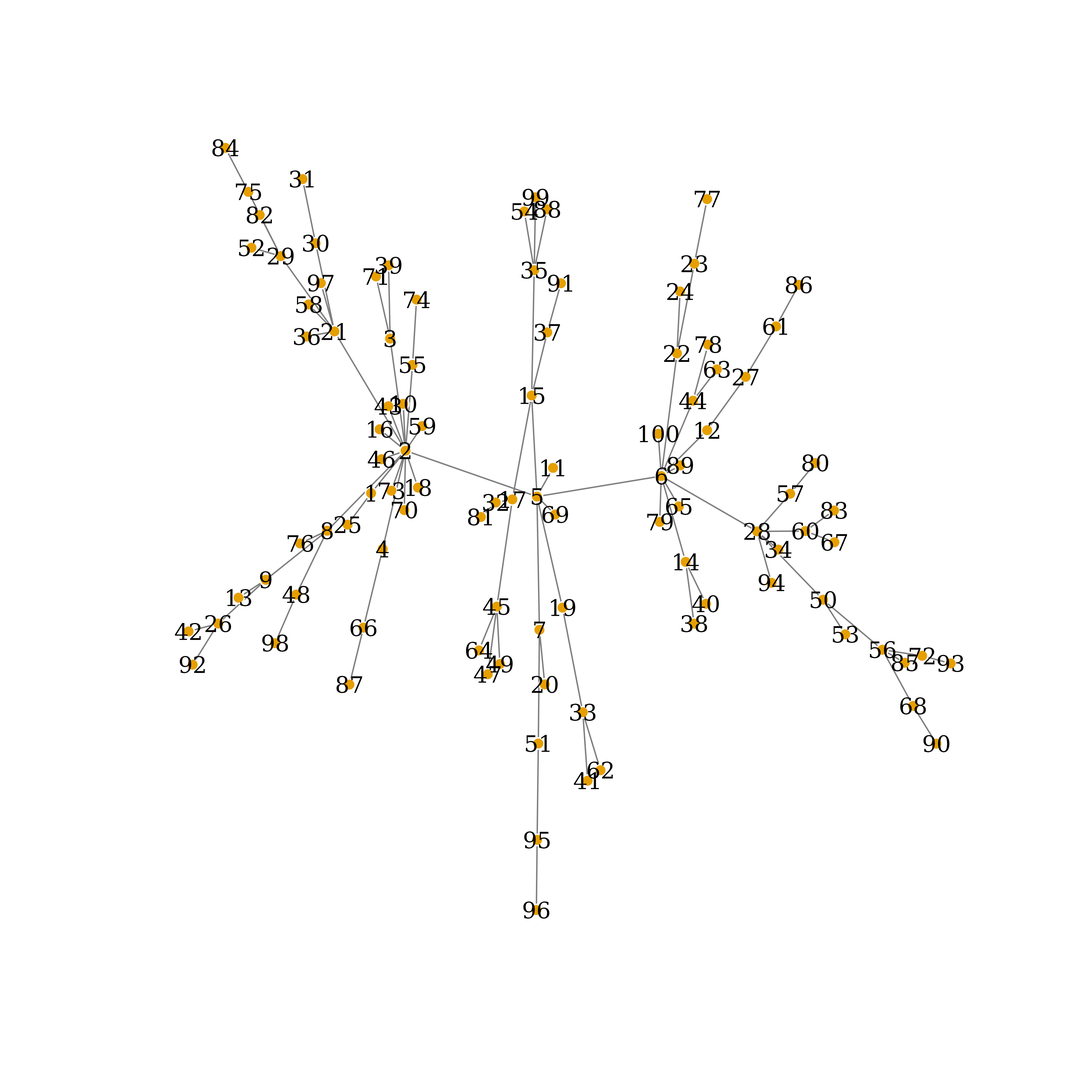
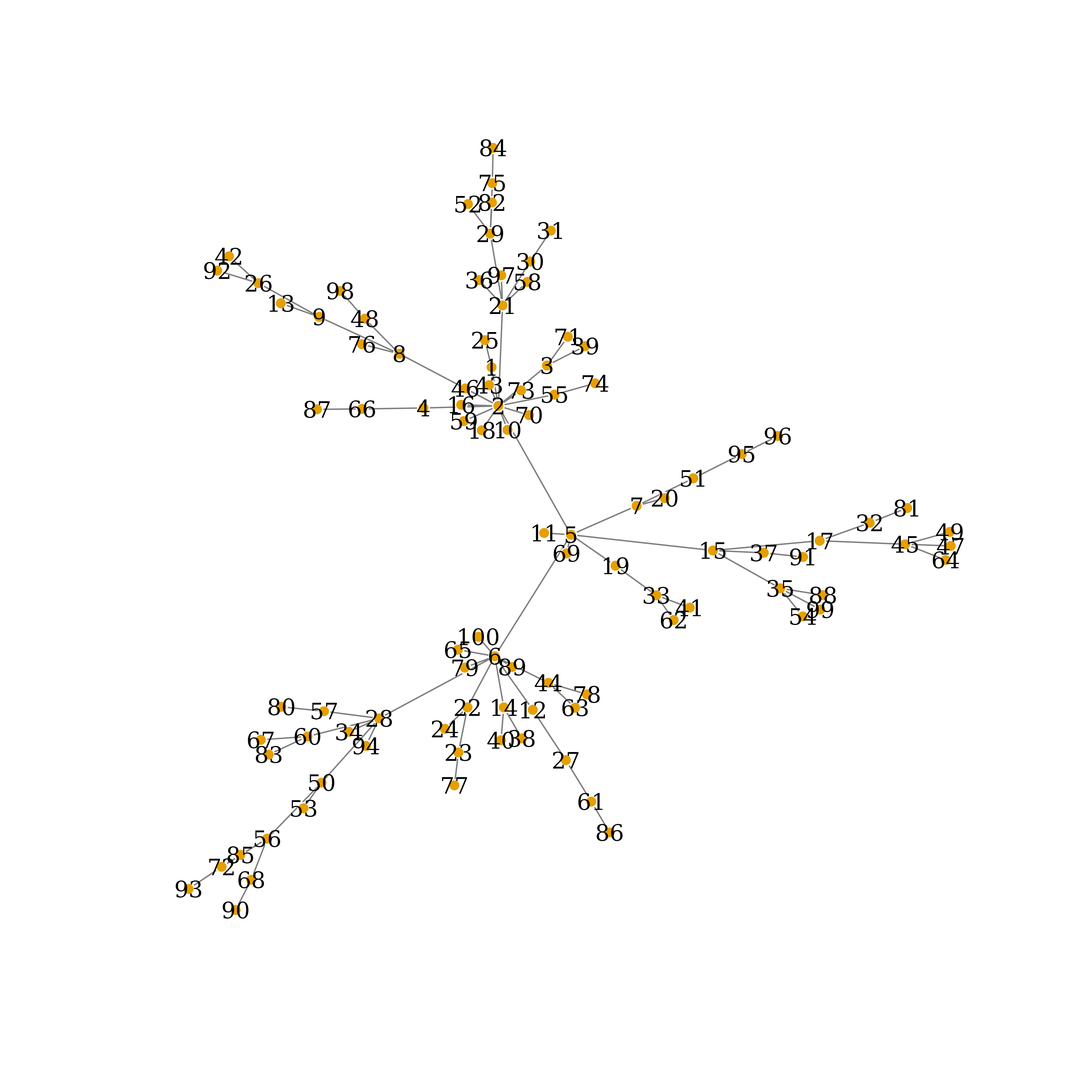
Deploying to gh-pages from @ HaoWang47/PCGII@eb001cafc447b2d425a1cf318b0b8c7fd6eb283d 🚀

diff --git a/articles/Introduction.html b/articles/Introduction.html
@@ -131,10 +131,11 @@ high-confidence information in real data applications.</p>
 <span><span class="co">#&gt; </span></span>
 <span><span class="co">#&gt; Loading required package: glmnet</span></span>
 <span><span class="co">#&gt; </span></span>
-<span><span class="co">#&gt; Loaded glmnet 4.1-8</span></span></code></pre></div>
+<span><span class="co">#&gt; Loaded glmnet 4.1-8</span></span>
+<span><span class="fu"><a href="https://rdrr.io/r/base/Random.html" class="external-link">set.seed</a></span><span class="op">(</span><span class="fl">010120000</span><span class="op">)</span></span></code></pre></div>
 </div>
 <div class="section level2">
-<h2 id="prepare-data">Prepare Data<a class="anchor" aria-label="anchor" href="#prepare-data"></a>
+<h2 id="simulate-network-and-prepare-data">Simulate Network and Prepare Data<a class="anchor" aria-label="anchor" href="#simulate-network-and-prepare-data"></a>
 </h2>
 <p>Three methods of generating a network structure were included in
 PCGII, including Scale Free Network Structure, Random Connection Network
@@ -142,21 +143,16 @@ Structure, and Block Diagonal Network Structure. In this section, we
 will illustrate what are expected during data preparation. We will start
 with a network with 100 nodes.</p>
 <div class="sourceCode" id="cb2"><pre class="downlit sourceCode r">
-<code class="sourceCode R"><span><span class="fu"><a href="https://rdrr.io/r/base/Random.html" class="external-link">set.seed</a></span><span class="op">(</span><span class="fl">010120000</span><span class="op">)</span></span>
-<span><span class="co">## Simulate precision matrix as your true network structure</span></span>
+<code class="sourceCode R"><span><span class="co">## Simulate precision matrix as your true network structure</span></span>
 <span><span class="va">N_nodes</span> <span class="op">=</span> <span class="fl">100</span></span>
 <span><span class="va">N_samples</span> <span class="op">=</span> <span class="fl">30</span></span>
-<span><span class="va">Omega</span> <span class="op">=</span> <span class="fu"><a href="../reference/make_sf_precision_mat.html">make_sf_precision_mat</a></span><span class="op">(</span>e <span class="op">=</span> <span class="fl">1</span>, p <span class="op">=</span> <span class="va">N_nodes</span><span class="op">)</span></span>
-<span><span class="va">Sigma</span> <span class="op">=</span> <span class="fu"><a href="https://rdrr.io/pkg/Matrix/man/solve-methods.html" class="external-link">solve</a></span><span class="op">(</span><span class="va">Omega</span><span class="op">)</span></span>
-<span><span class="va">mu</span> <span class="op">=</span> <span class="fu"><a href="https://rdrr.io/r/base/Log.html" class="external-link">exp</a></span><span class="op">(</span><span class="fu"><a href="https://rdrr.io/r/stats/Normal.html" class="external-link">qnorm</a></span><span class="op">(</span><span class="fu"><a href="https://rdrr.io/r/base/seq.html" class="external-link">seq</a></span><span class="op">(</span>from <span class="op">=</span> <span class="fl">0.01</span>, to <span class="op">=</span> <span class="fl">0.99</span>, length.out <span class="op">=</span> <span class="va">N_nodes</span><span class="op">)</span>, mean <span class="op">=</span> <span class="fl">2</span>, sd<span class="op">=</span><span class="fl">1</span><span class="op">)</span><span class="op">)</span></span>
-<span><span class="va">norm_data</span> <span class="op">=</span> <span class="fu">mvtnorm</span><span class="fu">::</span><span class="fu"><a href="https://rdrr.io/pkg/mvtnorm/man/Mvnorm.html" class="external-link">rmvnorm</a></span><span class="op">(</span>n <span class="op">=</span> <span class="va">N_samples</span>, mean <span class="op">=</span> <span class="va">mu</span>, sigma <span class="op">=</span> <span class="va">Sigma</span><span class="op">)</span></span>
-<span><span class="co">## Convert simulated normal data to expression count data</span></span>
-<span><span class="va">norm_data</span><span class="op">[</span><span class="va">norm_data</span><span class="op">&lt;</span><span class="fl">0</span><span class="op">]</span> <span class="op">=</span> <span class="fl">0</span></span>
-<span><span class="va">Exp_data</span> <span class="op">=</span> <span class="fu"><a href="https://rdrr.io/r/base/Round.html" class="external-link">round</a></span><span class="op">(</span><span class="va">norm_data</span><span class="op">)</span></span></code></pre></div>
+<span><span class="va">Omega</span> <span class="op">=</span> <span class="fu"><a href="../reference/make_sf_precision_mat.html">make_sf_precision_mat</a></span><span class="op">(</span>e <span class="op">=</span> <span class="fl">1</span>, p <span class="op">=</span> <span class="va">N_nodes</span><span class="op">)</span></span></code></pre></div>
 <div class="sourceCode" id="cb3"><pre class="downlit sourceCode r">
 <code class="sourceCode R"><span><span class="co">## Display the true network</span></span>
 <span><span class="va">nodenames</span> <span class="op">=</span> <span class="fl">1</span><span class="op">:</span><span class="va">N_nodes</span></span>
 <span><span class="va">links</span> <span class="op">=</span> <span class="fu"><a href="https://rdrr.io/r/base/which.html" class="external-link">which</a></span><span class="op">(</span><span class="fu"><a href="https://rdrr.io/r/base/lower.tri.html" class="external-link">lower.tri</a></span><span class="op">(</span><span class="va">Omega</span><span class="op">)</span> <span class="op">&amp;</span> <span class="va">Omega</span><span class="op">!=</span><span class="fl">0</span>, arr.ind <span class="op">=</span> <span class="cn">TRUE</span><span class="op">)</span></span>
+<span><span class="fu"><a href="https://rdrr.io/r/base/dim.html" class="external-link">dim</a></span><span class="op">(</span><span class="va">links</span><span class="op">)</span> <span class="co"># display number of connections, two columns correspond to the connected nodes</span></span>
+<span><span class="co">#&gt; [1] 99  2</span></span>
 <span><span class="va">my_net</span> <span class="op">&lt;-</span> <span class="fu"><a href="https://r.igraph.org/reference/graph_from_data_frame.html" class="external-link">graph_from_data_frame</a></span><span class="op">(</span>d<span class="op">=</span><span class="va">links</span>, vertices<span class="op">=</span><span class="va">nodenames</span>, directed<span class="op">=</span><span class="cn">F</span><span class="op">)</span> </span>
 <span><span class="va">Ecolrs</span><span class="op">=</span><span class="fu"><a href="https://rdrr.io/r/base/c.html" class="external-link">c</a></span><span class="op">(</span><span class="st">"gray50"</span><span class="op">)</span></span>
 <span><span class="va">Vcolrs</span><span class="op">=</span><span class="fu"><a href="https://rdrr.io/r/base/c.html" class="external-link">c</a></span><span class="op">(</span><span class="st">"gold"</span><span class="op">)</span></span>
@@ -184,6 +180,114 @@ True Network Connections, auto-layout
 <img src="Introduction_files/figure-html/unnamed-chunk-2-1.png" alt="True Network Connections, circle-layout" width="80%"><p class="caption">
 True Network Connections, circle-layout
 </p>
+</div>
+<div class="sourceCode" id="cb5"><pre class="downlit sourceCode r">
+<code class="sourceCode R"><span><span class="co">## Simulate Normal data</span></span>
+<span><span class="va">Sigma</span> <span class="op">=</span> <span class="fu"><a href="https://rdrr.io/pkg/Matrix/man/solve-methods.html" class="external-link">solve</a></span><span class="op">(</span><span class="va">Omega</span><span class="op">)</span></span>
+<span><span class="va">mu</span> <span class="op">=</span> <span class="fu"><a href="https://rdrr.io/r/base/Log.html" class="external-link">exp</a></span><span class="op">(</span><span class="fu"><a href="https://rdrr.io/r/stats/Normal.html" class="external-link">qnorm</a></span><span class="op">(</span><span class="fu"><a href="https://rdrr.io/r/base/seq.html" class="external-link">seq</a></span><span class="op">(</span>from <span class="op">=</span> <span class="fl">0.01</span>, to <span class="op">=</span> <span class="fl">0.99</span>, length.out <span class="op">=</span> <span class="va">N_nodes</span><span class="op">)</span>, mean <span class="op">=</span> <span class="fl">2</span>, sd<span class="op">=</span><span class="fl">1</span><span class="op">)</span><span class="op">)</span></span>
+<span><span class="va">norm_data</span> <span class="op">=</span> <span class="fu">mvtnorm</span><span class="fu">::</span><span class="fu"><a href="https://rdrr.io/pkg/mvtnorm/man/Mvnorm.html" class="external-link">rmvnorm</a></span><span class="op">(</span>n <span class="op">=</span> <span class="va">N_samples</span>, mean <span class="op">=</span> <span class="va">mu</span>, sigma <span class="op">=</span> <span class="va">Sigma</span><span class="op">)</span></span>
+<span><span class="co">## Convert simulated normal data to expression count data</span></span>
+<span><span class="va">norm_data</span><span class="op">[</span><span class="va">norm_data</span><span class="op">&lt;</span><span class="fl">0</span><span class="op">]</span> <span class="op">=</span> <span class="fl">0</span></span>
+<span><span class="va">Exp_data</span> <span class="op">=</span> <span class="fu"><a href="https://rdrr.io/r/base/Round.html" class="external-link">round</a></span><span class="op">(</span><span class="va">norm_data</span><span class="op">)</span></span>
+<span><span class="fu"><a href="https://rdrr.io/r/utils/head.html" class="external-link">head</a></span><span class="op">(</span><span class="va">Exp_data</span><span class="op">[</span>,<span class="fl">1</span><span class="op">:</span><span class="fl">10</span><span class="op">]</span><span class="op">)</span></span>
+<span><span class="co">#&gt;      [,1] [,2] [,3] [,4] [,5] [,6] [,7] [,8] [,9] [,10]</span></span>
+<span><span class="co">#&gt; [1,]    0    0    0    3    1    3    1    2    3     2</span></span>
+<span><span class="co">#&gt; [2,]    1    1    1    2    1    1    2    2    1     2</span></span>
+<span><span class="co">#&gt; [3,]    0    1    1    1    3    1    0    3    1     4</span></span>
+<span><span class="co">#&gt; [4,]    0    0    1    2    1    1    3    3    3     2</span></span>
+<span><span class="co">#&gt; [5,]    3    0    2    4    0    2    1    4    0     0</span></span>
+<span><span class="co">#&gt; [6,]    1    1    1    0    2    2    2    0    5     2</span></span></code></pre></div>
+<p>For illustration, we will randomly selection partial true connections
+and use them as prior knowledge. It should be carefully considered if
+such prior connections are undirected (i.e. A-B OR A-&gt;B &amp;
+B-&gt;A) in practice. Under the PCGII framework, it is recommended to
+use undirected connections as prior information.</p>
+<div class="sourceCode" id="cb6"><pre class="downlit sourceCode r">
+<code class="sourceCode R"><span><span class="va">prior_links</span> <span class="op">=</span> <span class="va">links</span><span class="op">[</span><span class="fu"><a href="https://rdrr.io/r/base/sample.html" class="external-link">sample</a></span><span class="op">(</span><span class="fl">1</span><span class="op">:</span><span class="fu"><a href="https://rdrr.io/r/base/nrow.html" class="external-link">nrow</a></span><span class="op">(</span><span class="va">links</span><span class="op">)</span>, <span class="fl">.2</span><span class="op">*</span><span class="fu"><a href="https://rdrr.io/r/base/nrow.html" class="external-link">nrow</a></span><span class="op">(</span><span class="va">links</span><span class="op">)</span><span class="op">)</span>,<span class="op">]</span></span>
+<span><span class="va">types</span> <span class="op">=</span> <span class="fu"><a href="https://rdrr.io/r/base/rep.html" class="external-link">rep</a></span><span class="op">(</span><span class="fl">1</span>, <span class="fl">99</span><span class="op">)</span></span>
+<span><span class="va">types</span><span class="op">[</span><span class="va">prior_links</span><span class="op">]</span> <span class="op">=</span> <span class="fl">2</span> <span class="co"># 1 for unknown true connections, 2 for known prior connections</span></span>
+<span><span class="va">undirected_prior_links</span> <span class="op">=</span> <span class="fu"><a href="../reference/undirected_prior.html">undirected_prior</a></span><span class="op">(</span><span class="va">prior_links</span><span class="op">)</span></span>
+<span><span class="va">prior_net</span> <span class="op">=</span> <span class="fu"><a href="https://r.igraph.org/reference/graph_from_data_frame.html" class="external-link">graph_from_data_frame</a></span><span class="op">(</span>d<span class="op">=</span><span class="fu"><a href="https://rdrr.io/r/base/cbind.html" class="external-link">cbind</a></span><span class="op">(</span><span class="va">links</span>,<span class="va">types</span><span class="op">)</span>, vertices<span class="op">=</span><span class="va">nodenames</span>, directed<span class="op">=</span><span class="cn">F</span><span class="op">)</span> </span>
+<span><span class="co">#&gt; Warning in cbind(links, types): number of rows of result is not a multiple of</span></span>
+<span><span class="co">#&gt; vector length (arg 2)</span></span>
+<span><span class="va">Ecolrs</span><span class="op">=</span><span class="fu"><a href="https://rdrr.io/r/base/c.html" class="external-link">c</a></span><span class="op">(</span><span class="st">"grey90"</span>, <span class="st">"grey10"</span><span class="op">)</span> <span class="co"># dark grey shows known prior connections</span></span>
+<span><span class="fu"><a href="https://r.igraph.org/reference/E.html" class="external-link">E</a></span><span class="op">(</span><span class="va">prior_net</span><span class="op">)</span><span class="op">$</span><span class="va">color</span> <span class="op">=</span> <span class="va">Ecolrs</span><span class="op">[</span><span class="fu"><a href="https://r.igraph.org/reference/E.html" class="external-link">E</a></span><span class="op">(</span><span class="va">prior_net</span><span class="op">)</span><span class="op">$</span><span class="va">types</span><span class="op">]</span></span>
+<span><span class="va">Vcolrs</span><span class="op">=</span><span class="fu"><a href="https://rdrr.io/r/base/c.html" class="external-link">c</a></span><span class="op">(</span><span class="st">"gold"</span><span class="op">)</span></span>
+<span><span class="fu"><a href="https://rdrr.io/r/graphics/plot.default.html" class="external-link">plot</a></span><span class="op">(</span><span class="va">prior_net</span>, </span>
+<span>     edge.arrow.size<span class="op">=</span><span class="fl">.5</span>, </span>
+<span>     vertex.frame.color<span class="op">=</span><span class="st">"#ffffff"</span>,</span>
+<span>     vertex.label.color<span class="op">=</span><span class="st">"black"</span>,</span>
+<span>     vertex.size<span class="op">=</span><span class="fl">3</span>,</span>
+<span>     layout<span class="op">=</span><span class="fu"><a href="https://r.igraph.org/reference/layout.deprecated.html" class="external-link">layout.circle</a></span><span class="op">(</span><span class="va">my_net</span><span class="op">)</span><span class="op">)</span> </span></code></pre></div>
+<div class="figure" style="text-align: center">
+<img src="Introduction_files/figure-html/prior-1.png" alt="Prior Network Connections, circle-layout" width="80%"><p class="caption">
+Prior Network Connections, circle-layout
+</p>
+</div>
+</div>
+<div class="section level2">
+<h2 id="analyses-with-pcgii-and-clevel">Analyses with PCGII and CLEVEL<a class="anchor" aria-label="anchor" href="#analyses-with-pcgii-and-clevel"></a>
+</h2>
+<div class="section level3">
+<h3 id="pcgii-inference">PCGII Inference<a class="anchor" aria-label="anchor" href="#pcgii-inference"></a>
+</h3>
+<div class="sourceCode" id="cb7"><pre class="downlit sourceCode r">
+<code class="sourceCode R"><span><span class="va">fixed_lamdba</span> <span class="op">=</span> <span class="fu"><a href="https://rdrr.io/r/base/MathFun.html" class="external-link">sqrt</a></span><span class="op">(</span><span class="fl">2</span><span class="op">*</span><span class="fu"><a href="https://rdrr.io/r/base/Log.html" class="external-link">log</a></span><span class="op">(</span><span class="va">N_nodes</span><span class="op">/</span><span class="fu"><a href="https://rdrr.io/r/base/MathFun.html" class="external-link">sqrt</a></span><span class="op">(</span><span class="va">N_samples</span><span class="op">)</span><span class="op">)</span><span class="op">/</span><span class="va">N_samples</span><span class="op">)</span></span>
+<span><span class="va">PCGII.out</span> <span class="op">=</span> <span class="fu"><a href="../reference/PCGII.html">PCGII</a></span><span class="op">(</span>df <span class="op">=</span> <span class="va">Exp_data</span>, prior <span class="op">=</span> <span class="va">undirected_prior_links</span>, lambda <span class="op">=</span> <span class="va">fixed_lamdba</span><span class="op">)</span></span>
+<span><span class="va">PCGII.inf</span> <span class="op">=</span> <span class="fu"><a href="../reference/inference.html">inference</a></span><span class="op">(</span><span class="va">PCGII.out</span>, alpha <span class="op">=</span> <span class="fl">.1</span><span class="op">)</span></span></code></pre></div>
+</div>
+<div class="section level3">
+<h3 id="display-significant-connections-detected-by-pcgii">Display significant connections detected by PCGII<a class="anchor" aria-label="anchor" href="#display-significant-connections-detected-by-pcgii"></a>
+</h3>
+<div class="sourceCode" id="cb8"><pre class="downlit sourceCode r">
+<code class="sourceCode R"><span><span class="va">PCGII_links</span> <span class="op">=</span> <span class="fu"><a href="https://rdrr.io/r/base/which.html" class="external-link">which</a></span><span class="op">(</span><span class="fu"><a href="https://rdrr.io/r/base/lower.tri.html" class="external-link">lower.tri</a></span><span class="op">(</span><span class="va">PCGII.inf</span><span class="op">)</span> <span class="op">&amp;</span> <span class="va">PCGII.inf</span><span class="op">!=</span><span class="fl">0</span>, arr.ind <span class="op">=</span> <span class="cn">TRUE</span><span class="op">)</span></span>
+<span><span class="fu"><a href="https://rdrr.io/r/base/dim.html" class="external-link">dim</a></span><span class="op">(</span><span class="va">PCGII_links</span><span class="op">)</span> <span class="co"># display number of connections detected by PCGII</span></span>
+<span><span class="co">#&gt; [1] 45  2</span></span>
+<span><span class="va">PCGII_net</span> <span class="op">&lt;-</span> <span class="fu"><a href="https://r.igraph.org/reference/graph_from_data_frame.html" class="external-link">graph_from_data_frame</a></span><span class="op">(</span>d<span class="op">=</span><span class="va">PCGII_links</span>, vertices<span class="op">=</span><span class="va">nodenames</span>, directed<span class="op">=</span><span class="cn">F</span><span class="op">)</span> </span>
+<span><span class="va">Ecolrs</span><span class="op">=</span><span class="fu"><a href="https://rdrr.io/r/base/c.html" class="external-link">c</a></span><span class="op">(</span><span class="st">"blue"</span><span class="op">)</span></span>
+<span><span class="va">Vcolrs</span><span class="op">=</span><span class="fu"><a href="https://rdrr.io/r/base/c.html" class="external-link">c</a></span><span class="op">(</span><span class="st">"gold"</span><span class="op">)</span></span>
+<span><span class="fu"><a href="https://rdrr.io/r/graphics/plot.default.html" class="external-link">plot</a></span><span class="op">(</span><span class="va">PCGII_net</span>, </span>
+<span>     edge.arrow.size<span class="op">=</span><span class="fl">.5</span>, </span>
+<span>     edge.color<span class="op">=</span><span class="va">Ecolrs</span>,</span>
+<span>     vertex.frame.color<span class="op">=</span><span class="st">"#ffffff"</span>,</span>
+<span>     vertex.label.color<span class="op">=</span><span class="st">"black"</span>,</span>
+<span>     vertex.size<span class="op">=</span><span class="fl">3</span>,</span>
+<span>     layout<span class="op">=</span><span class="fu"><a href="https://r.igraph.org/reference/layout.deprecated.html" class="external-link">layout.circle</a></span><span class="op">(</span><span class="va">PCGII_net</span><span class="op">)</span><span class="op">)</span> </span></code></pre></div>
+<div class="figure" style="text-align: center">
+<img src="Introduction_files/figure-html/PCGII_net-1.png" alt="Network Recovered by PCGII, circle-layout" width="80%"><p class="caption">
+Network Recovered by PCGII, circle-layout
+</p>
+</div>
+</div>
+<div class="section level3">
+<h3 id="pcgii-inference-1">PCGII Inference<a class="anchor" aria-label="anchor" href="#pcgii-inference-1"></a>
+</h3>
+<div class="sourceCode" id="cb9"><pre class="downlit sourceCode r">
+<code class="sourceCode R"><span><span class="va">CLEVEL.out</span> <span class="op">=</span> <span class="fu"><a href="../reference/clevel.html">clevel</a></span><span class="op">(</span>df <span class="op">=</span> <span class="va">Exp_data</span>, lambda <span class="op">=</span> <span class="va">fixed_lamdba</span><span class="op">)</span></span>
+<span><span class="va">CLEVEL.inf</span> <span class="op">=</span> <span class="fu"><a href="../reference/inference.html">inference</a></span><span class="op">(</span><span class="va">CLEVEL.out</span>, alpha <span class="op">=</span> <span class="fl">.1</span><span class="op">)</span></span></code></pre></div>
+</div>
+<div class="section level3">
+<h3 id="display-significant-connections-detected-by-pcgii-1">Display significant connections detected by PCGII<a class="anchor" aria-label="anchor" href="#display-significant-connections-detected-by-pcgii-1"></a>
+</h3>
+<div class="sourceCode" id="cb10"><pre class="downlit sourceCode r">
+<code class="sourceCode R"><span><span class="va">CLEVEL_links</span> <span class="op">=</span> <span class="fu"><a href="https://rdrr.io/r/base/which.html" class="external-link">which</a></span><span class="op">(</span><span class="fu"><a href="https://rdrr.io/r/base/lower.tri.html" class="external-link">lower.tri</a></span><span class="op">(</span><span class="va">CLEVEL.inf</span><span class="op">)</span> <span class="op">&amp;</span> <span class="va">CLEVEL.inf</span><span class="op">!=</span><span class="fl">0</span>, arr.ind <span class="op">=</span> <span class="cn">TRUE</span><span class="op">)</span></span>
+<span><span class="fu"><a href="https://rdrr.io/r/base/dim.html" class="external-link">dim</a></span><span class="op">(</span><span class="va">CLEVEL_links</span><span class="op">)</span> <span class="co"># display number of connections detected by PCGII</span></span>
+<span><span class="co">#&gt; [1] 38  2</span></span>
+<span><span class="va">CLEVEL_net</span> <span class="op">&lt;-</span> <span class="fu"><a href="https://r.igraph.org/reference/graph_from_data_frame.html" class="external-link">graph_from_data_frame</a></span><span class="op">(</span>d<span class="op">=</span><span class="va">CLEVEL_links</span>, vertices<span class="op">=</span><span class="va">nodenames</span>, directed<span class="op">=</span><span class="cn">F</span><span class="op">)</span> </span>
+<span><span class="va">Ecolrs</span><span class="op">=</span><span class="fu"><a href="https://rdrr.io/r/base/c.html" class="external-link">c</a></span><span class="op">(</span><span class="st">"blue"</span><span class="op">)</span></span>
+<span><span class="va">Vcolrs</span><span class="op">=</span><span class="fu"><a href="https://rdrr.io/r/base/c.html" class="external-link">c</a></span><span class="op">(</span><span class="st">"gold"</span><span class="op">)</span></span>
+<span><span class="fu"><a href="https://rdrr.io/r/graphics/plot.default.html" class="external-link">plot</a></span><span class="op">(</span><span class="va">CLEVEL_net</span>, </span>
+<span>     edge.arrow.size<span class="op">=</span><span class="fl">.5</span>, </span>
+<span>     edge.color<span class="op">=</span><span class="va">Ecolrs</span>,</span>
+<span>     vertex.frame.color<span class="op">=</span><span class="st">"#ffffff"</span>,</span>
+<span>     vertex.label.color<span class="op">=</span><span class="st">"black"</span>,</span>
+<span>     vertex.size<span class="op">=</span><span class="fl">3</span>,</span>
+<span>     layout<span class="op">=</span><span class="fu"><a href="https://r.igraph.org/reference/layout.deprecated.html" class="external-link">layout.circle</a></span><span class="op">(</span><span class="va">CLEVEL_net</span><span class="op">)</span><span class="op">)</span> </span></code></pre></div>
+<div class="figure" style="text-align: center">
+<img src="Introduction_files/figure-html/CLEVEL_net-1.png" alt="Network Recovered by CLEVEL, circle-layout" width="80%"><p class="caption">
+Network Recovered by CLEVEL, circle-layout
+</p>
+</div>
 </div>
 </div>
   </main><aside class="col-md-3"><nav id="toc"><h2>On this page</h2>

diff --git a/index.html b/index.html
@@ -80,10 +80,9 @@
 <div class="section level3">
 <h3 id="citation">Citation:<a class="anchor" aria-label="anchor" href="#citation"></a>
 </h3>
-</div>
-<div class="section level2">
-<h2 id="id_-wang-h-qiu-y-guo-h-yin-y-liu-p-2024-information-incorporated-gene-network-construction-with-fdr-control-under-review">&gt; Wang, H., Qiu, Y.*, Guo, H., Yin, Y., Liu, P.*, 2024. Information-incorporated Gene Network Construction with FDR Control. Under review.<a class="anchor" aria-label="anchor" href="#id_-wang-h-qiu-y-guo-h-yin-y-liu-p-2024-information-incorporated-gene-network-construction-with-fdr-control-under-review"></a>
-</h2>
+<blockquote>
+<p>Wang, H., Qiu, Y.*, Guo, H., Yin, Y., Liu, P.*, 2024. Information-incorporated Gene Network Construction with FDR Control. Under review.</p>
+</blockquote>
 </div>
 </div>
 <div class="section level1">
@@ -103,43 +102,63 @@
 <div class="section level3">
 <h3 id="usage">Usage<a class="anchor" aria-label="anchor" href="#usage"></a>
 </h3>
-<pre class="pcgii()```:"><code>
-  - Input:
-    - `df`: the main expression data, an $n$ by $p$ matrix/dataframe, in which each row corresponds to a sample and each column represents expression/abundance of an omics feature;
-    - `prior`: the prior set, a $k$ by $2$ dataframe, in which each row corresponds to a pair of nodes (any omics features) that are connected under prior belief. Note, prior input has to be dataframe with column names **"row"** and **"col"**;
-    - `lambda`: the regularization parameter, used in the node-wise regression. If missing, default lambda will be used which is at the order of $\sqrt{2\times log(p/\sqrt{n})/n}$.
-  - Remark: mathematical standardization will be automatically done within the function.
-  - Output: This function returns a list of
-    - `Est`: estimated partial correlation matrix;
-    - `EstThresh`: sparse partial correlation estimation matrix with threshold;
-    - `kappa`: estimated ratio of forth and squared second moment of residuals, please refer to the manuscript for details;
-    - `tscore`: estimated test statistics matrix of partial correlations;
-    - `n`: sample size;
-    - `p`: number of genes under study.
-
-```Inference()```:
-
-  - Input:
-    - `list`: a list returned by either `PCGII()` or `clevel()`.
-    - `alpha`: pre-determined False Discovery Rate. Nominal FDR is set at 0.05 by default.
-  - Output: an adjacency matrix of significant partial correlations.
-
------
-
-# Network Analysis
-
-Simulate data $X$ from a scale-free network $g$.
-
-```r
-&gt; # Simulating data
-&gt; set.seed(1234567)
-&gt; n=50 # sample size
-&gt; p=30 # number of nodes
-&gt;
-&gt; omega=make_random_precision_mat(eta=.01, p=p)
-&gt;
-&gt; Sigma=solve(omega) # population covariance matrix, which is used to generate data
-&gt; X = rmvnorm(n = n, sigma = Sigma) # simulate expression data</code></pre>
+<p><code><a href="reference/PCGII.html">PCGII()</a></code></p>
+<ul>
+<li>Input:
+<ul>
+<li>
+<code>df</code>: the main expression data, an <span class="math inline"><em>n</em></span> by <span class="math inline"><em>p</em></span> matrix/dataframe, in which each row corresponds to a sample and each column represents expression/abundance of an omics feature;</li>
+<li>
+<code>prior</code>: the prior set, a <span class="math inline"><em>k</em></span> by <span class="math inline">2</span> dataframe, in which each row corresponds to a pair of nodes (any omics features) that are connected under prior belief. Note, prior input has to be dataframe with column names <strong>“row”</strong> and <strong>“col”</strong>;</li>
+<li>
+<code>lambda</code>: the regularization parameter, used in the node-wise regression. If missing, default lambda will be used which is at the order of <span class="math inline">$\sqrt{2\times log(p/\sqrt{n})/n}$</span>.</li>
+</ul>
+</li>
+<li>Remark: mathematical standardization will be automatically done within the function.</li>
+<li>Output: This function returns a list of
+<ul>
+<li>
+<code>Est</code>: estimated partial correlation matrix;</li>
+<li>
+<code>EstThresh</code>: sparse partial correlation estimation matrix with threshold;</li>
+<li>
+<code>kappa</code>: estimated ratio of forth and squared second moment of residuals, please refer to the manuscript for details;</li>
+<li>
+<code>tscore</code>: estimated test statistics matrix of partial correlations;</li>
+<li>
+<code>n</code>: sample size;</li>
+<li>
+<code>p</code>: number of genes under study.</li>
+</ul>
+</li>
+</ul>
+<p><code>Inference()</code></p>
+<ul>
+<li>Input:
+<ul>
+<li>
+<code>list</code>: a list returned by either <code><a href="reference/PCGII.html">PCGII()</a></code> or <code><a href="reference/clevel.html">clevel()</a></code>.</li>
+<li>
+<code>alpha</code>: pre-determined False Discovery Rate. Nominal FDR is set at 0.05 by default.</li>
+</ul>
+</li>
+<li>Output: an adjacency matrix of significant partial correlations.</li>
+</ul>
+</div>
+</div>
+<div class="section level1">
+<h1 id="network-analysis">Network Analysis<a class="anchor" aria-label="anchor" href="#network-analysis"></a>
+</h1>
+<p>Simulate data <span class="math inline"><em>X</em></span> from a scale-free network <span class="math inline"><em>g</em></span>.</p>
+<div class="sourceCode" id="cb2"><pre class="sourceCode r"><code class="sourceCode r"><span id="cb2-1"><a href="#cb2-1" aria-hidden="true" tabindex="-1"></a><span class="sc">&gt;</span> <span class="co"># Simulating data</span></span>
+<span id="cb2-2"><a href="#cb2-2" aria-hidden="true" tabindex="-1"></a><span class="er">&gt;</span> <span class="fu">set.seed</span>(<span class="dv">1234567</span>)</span>
+<span id="cb2-3"><a href="#cb2-3" aria-hidden="true" tabindex="-1"></a><span class="sc">&gt;</span> n<span class="ot">=</span><span class="dv">50</span> <span class="co"># sample size</span></span>
+<span id="cb2-4"><a href="#cb2-4" aria-hidden="true" tabindex="-1"></a><span class="sc">&gt;</span> p<span class="ot">=</span><span class="dv">30</span> <span class="co"># number of nodes</span></span>
+<span id="cb2-5"><a href="#cb2-5" aria-hidden="true" tabindex="-1"></a><span class="sc">&gt;</span></span>
+<span id="cb2-6"><a href="#cb2-6" aria-hidden="true" tabindex="-1"></a><span class="er">&gt;</span> omega<span class="ot">=</span><span class="fu">make_random_precision_mat</span>(<span class="at">eta=</span>.<span class="dv">01</span>, <span class="at">p=</span>p)</span>
+<span id="cb2-7"><a href="#cb2-7" aria-hidden="true" tabindex="-1"></a><span class="sc">&gt;</span></span>
+<span id="cb2-8"><a href="#cb2-8" aria-hidden="true" tabindex="-1"></a><span class="er">&gt;</span> Sigma<span class="ot">=</span><span class="fu">solve</span>(omega) <span class="co"># population covariance matrix, which is used to generate data</span></span>
+<span id="cb2-9"><a href="#cb2-9" aria-hidden="true" tabindex="-1"></a><span class="sc">&gt;</span> X <span class="ot">=</span> <span class="fu">rmvnorm</span>(<span class="at">n =</span> n, <span class="at">sigma =</span> Sigma) <span class="co"># simulate expression data</span></span></code></pre></div>
 <p>Network analysis of data matrix <code>X</code>.</p>
 <pre><code>&gt; # determine tuning parameter: fixed lambda
 &gt; lam=2*sqrt(log(p)/n)
@@ -163,7 +182,6 @@ Simulate data $X$ from a scale-free network $g$.
 &gt; inference_out %&gt;%
 +   graph_from_adjacency_matrix(mode = "undirected") %&gt;%
 +   plot(vertex.size=4, vertex.label.dist=0.5, vertex.color="red", edge.arrow.size=0.5)</code></pre>
-</div>
 </div>
 
   </main><aside class="col-md-3"><div class="license">
